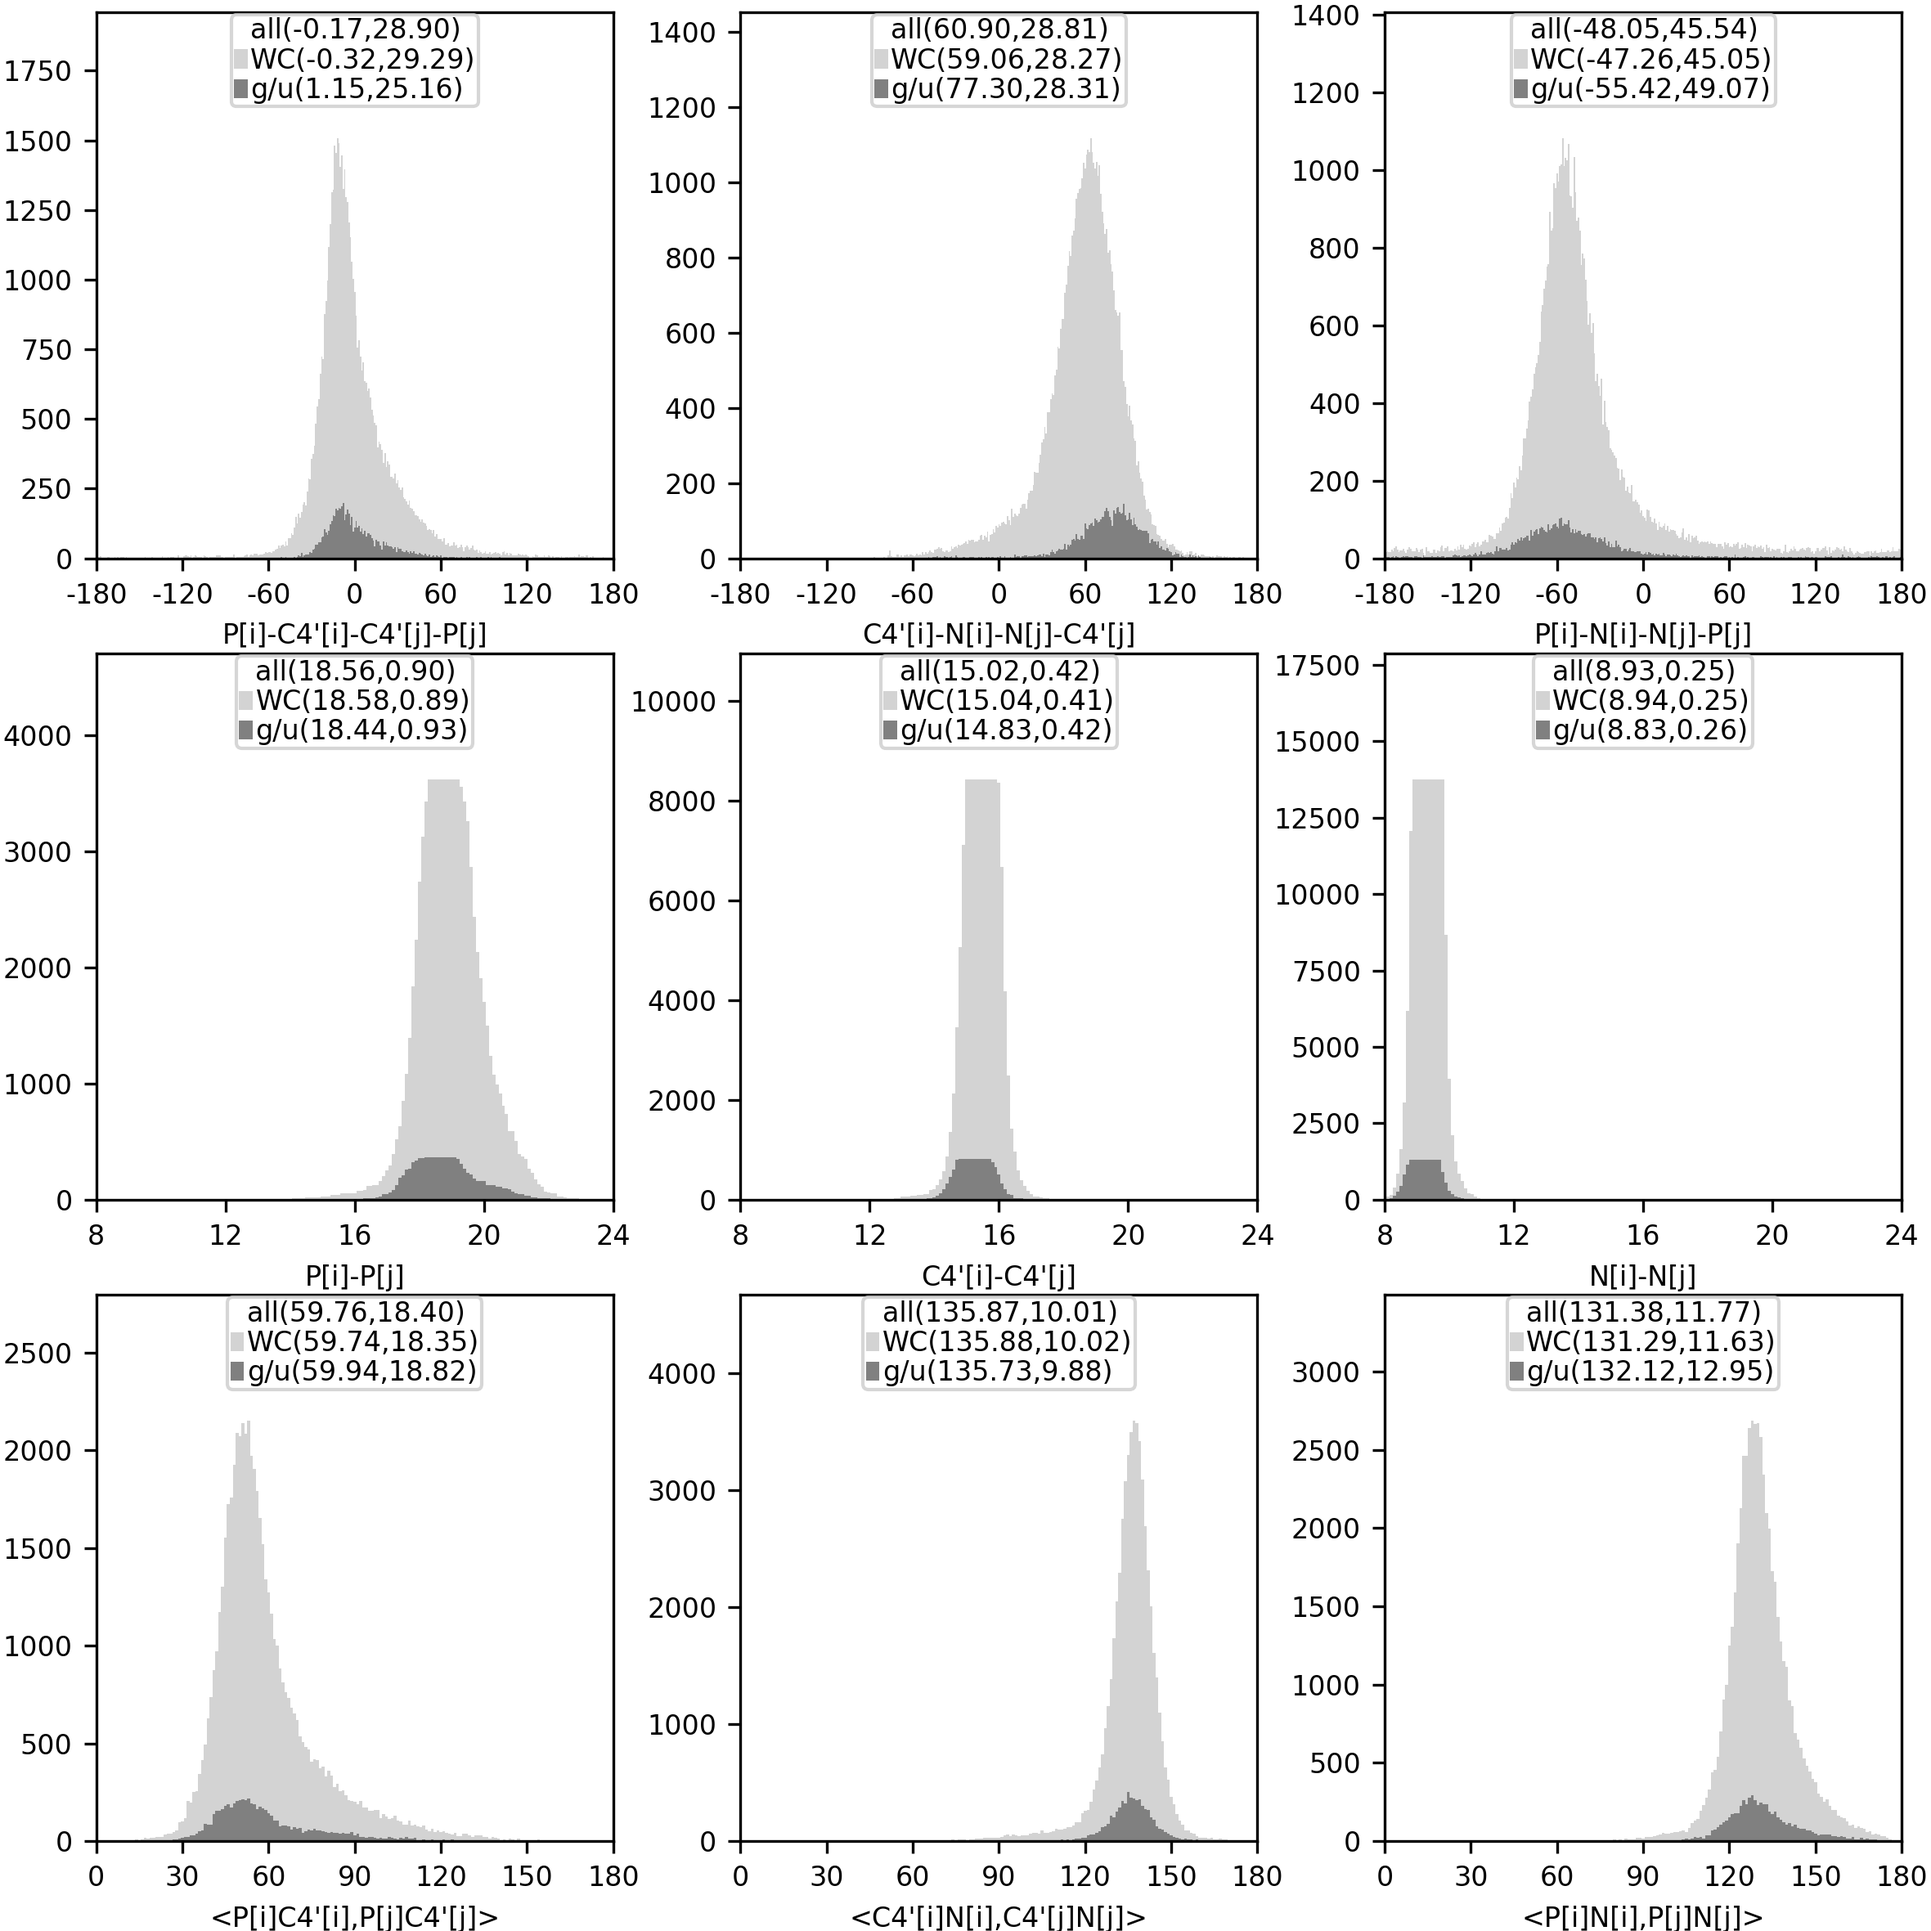
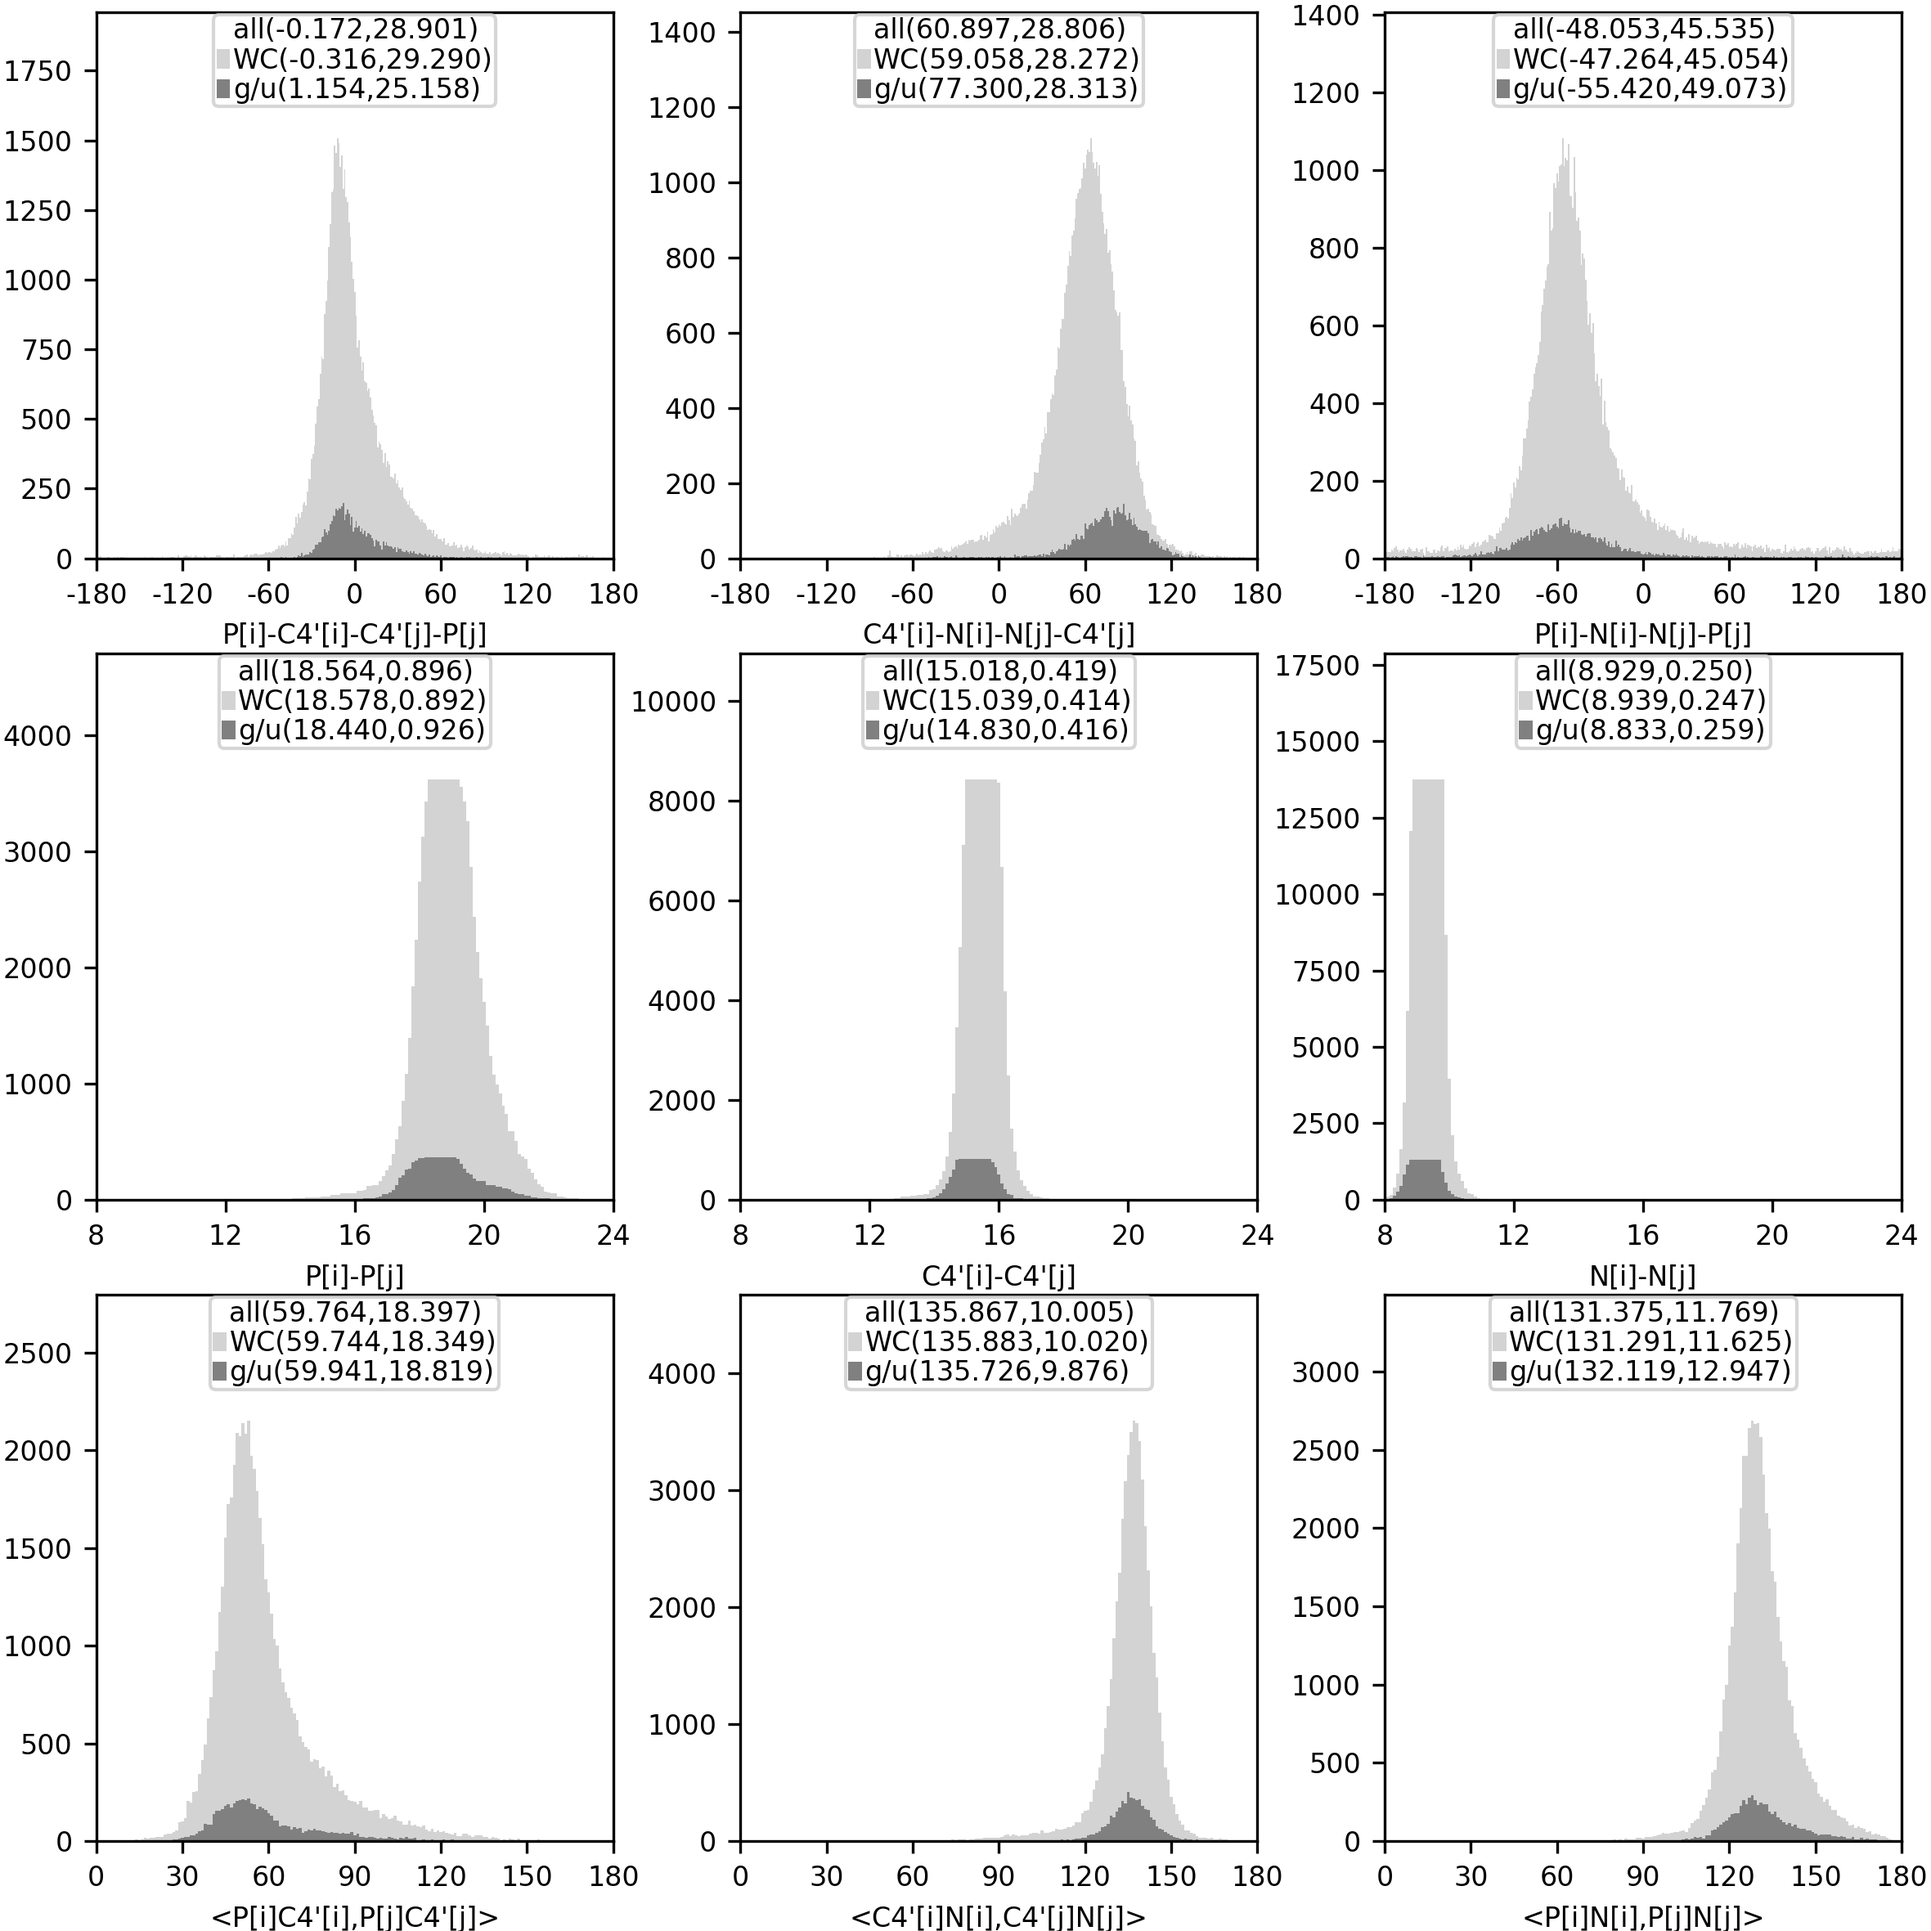
3 digit

diff --git a/script/statBPtorsion2.py b/script/statBPtorsion2.py
@@ -1,0 +1,156 @@
+#!/usr/bin/env python
+docstring='''
+statBPtorsion2.py BPtorsion2.raw.gz
+    read torsion angle data, draw Torsion statistics
+'''
+import sys, os
+import gzip
+
+import matplotlib
+matplotlib.use("agg")
+from matplotlib import pyplot as plt
+import numpy as np
+
+#import scipy.stats
+
+def get_mean_std(angle_data,is_torsion=False):
+    mu=angle_data.mean()
+    sigma=angle_data.std()
+    if is_torsion:
+        angle_data2=np.array(angle_data)
+        idx=angle_data<0
+        angle_data2[idx]+=360
+        sigma2=angle_data2.std()
+        mu2=angle_data2.mean()
+        if sigma2<sigma:
+            mu=mu2
+            sigma=sigma2
+            if mu>180:
+                mu-=360
+        for it in range(10):
+            angle_data2=np.array(angle_data)
+            idx=angle_data<mu-180
+            if sum(idx):
+                angle_data2[idx]+=360
+            idx=angle_data>mu+180
+            if sum(idx):
+                angle_data2[idx]-=360
+            mu=angle_data2.mean()
+            sigma=angle_data2.std()
+            if mu>180:
+                mu-=360
+            elif mu<-180:
+                mu+=360
+    return mu,sigma
+
+def statBPtorsion2(rawfile):
+    data=[]
+    bptype_list=[]
+    angle_list=[]
+    fp=gzip.open(rawfile)
+    for line in fp.read().splitlines():
+        if line.startswith("####"):
+            continue
+        if line.startswith("N c resi"):
+            angle_list=line[32:].strip().split()
+            continue
+        name=line[20:32].strip()
+        bptype_list.append(name)
+        data.append([float(t) for t in line[32:].split()])
+    fp.close()
+    data=np.array(data)
+    bptype_array=np.array(bptype_list,dtype=str)
+
+    BPtorsion2_txt="#short\tALLmean\tALLstd\tWCmean\tWCstd\tGUmean\tGUstd\tfull\n"
+    
+    #### set parameters for matplotlib ####
+    fontsize=8
+    matplotlib.rcParams["legend.borderaxespad"]=0.1
+    matplotlib.rcParams["legend.borderpad"]    =0.1
+    matplotlib.rcParams["legend.columnspacing"]=1
+    matplotlib.rcParams["legend.handlelength"] =0.5
+    matplotlib.rcParams["legend.handletextpad"]=0.1 
+    matplotlib.rcParams["legend.labelspacing"] =0.1
+    
+    xlabel_dict={
+        "PCCP":"P[i]-C4'[i]-C4'[j]-P[j]",
+        "CNNC":"C4'[i]-N[i]-N[j]-C4'[j]",
+        "PNNP":"P[i]-N[i]-N[j]-P[j]"    ,
+
+        "PP"  :"P[i]-P[j]"              ,
+        "CC"  :"C4'[i]-C4'[j]"          ,
+        "NN"  :"N[i]-N[j]"              ,
+
+        "aPC" :"<P[i]C4'[i],P[j]C4'[j]>",
+        "aCN" :"<C4'[i]N[i],C4'[j]N[j]>",
+        "aPN" :"<P[i]N[i],P[j]N[j]>"    ,
+    }
+    # WC          19-XIX    cWW  cW-W
+    # Wobble      28-XXVIII cWW  cW-W
+    name_list=["WC","Wobble"]
+
+    #### dihedral ####
+    plt.figure(figsize=(7.87,7.87))
+    bins=np.arange(-180,181,1)
+    xticks=range(-180,181,60)
+    for a in range(len(data[0])):
+        print(angle_list[a])
+        if a<3:
+            width=1
+            bins=np.arange(-180,181,width)
+            xticks=range(-180,181,60)
+        elif 3<=a and a<6:
+            width=0.1
+            bins=np.arange(8,24+width,width)
+            xticks=range(8,25,4)
+        else:
+            width=1
+            bins=np.arange(0,181,width)
+            xticks=range(0,181,30)
+        
+        plt.subplot(3,3,a+1)
+        ymax=0
+        angle_data=data[:,a]
+        if a<3 or a>6:
+            angle_data=angle_data[angle_data>=-180]
+        else:
+            angle_data=angle_data[angle_data>0]
+        mu,sigma=get_mean_std(angle_data,a<3)
+        label="all(%.3f,%.3f)"%(mu,sigma)
+        BPtorsion2_txt+="%s\t%.3f\t%.3f\t"%(angle_list[a],mu,sigma)
+        n=plt.hist(angle_data,bins=bins,
+            edgecolor="none",facecolor="white",
+            width=1, align="left", label=label)[0]
+        for l,name in enumerate(name_list):
+            angle_data=data[bptype_array==name,a]
+            if a<3 or a>6:
+                angle_data=angle_data[angle_data>=-180]
+            else:
+                angle_data=angle_data[angle_data>0]
+            mu,sigma=get_mean_std(angle_data,a<3)
+            label="%s(%.3f,%.3f)"%(name.replace("Wobble","g/u"), mu,sigma)
+            BPtorsion2_txt+="%.3f\t%.3f\t"%(mu,sigma)
+            n=plt.hist(angle_data,bins=bins,
+                edgecolor="none",facecolor=["lightgrey","grey"][l],
+                width=1, align="left", label=label)[0]
+            ymax=max([ymax,n.max()*1.3])
+        BPtorsion2_txt+=xlabel_dict[angle_list[a]]+'\n'
+        plt.axis([min(bins),max(bins),0,ymax])
+        plt.xticks(xticks,xticks,fontsize=fontsize)
+        plt.yticks(fontsize=fontsize)
+        plt.xlabel(xlabel_dict[angle_list[a]],fontsize=fontsize)
+        plt.legend(loc="upper center",fontsize=fontsize)
+    
+    fp=open("BPtorsion2.txt",'w')
+    fp.write(BPtorsion2_txt)
+    fp.close()
+    plt.tight_layout(pad=0.1,h_pad=0,w_pad=0)
+    plt.savefig("BPtorsion2.png",dpi=300)
+    return
+
+if __name__=="__main__":
+    if len(sys.argv)!=2:
+        sys.stderr.write(docstring)
+        exit()
+
+    statBPtorsion2(sys.argv[1])
